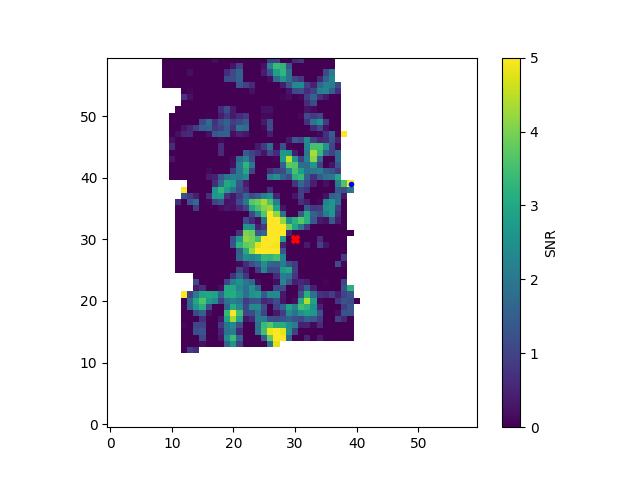
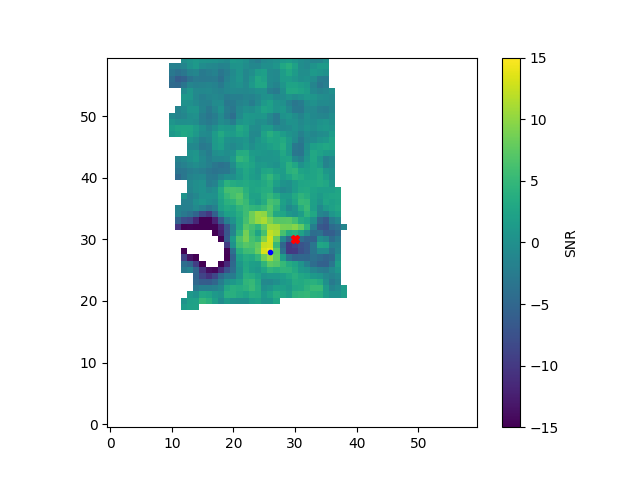
working version

diff --git a/get_planet.py b/get_planet.py
@@ -43,7 +43,7 @@ model_spec = 10 ** (arr[:, 1] - 8)
 tr_counter = 0
 tr_total = 6
 
-for filename in files[11:]:
+for filename in files[5:12]:
     if ".fits" not in filename:
         print("skipping ", filename)
         continue
@@ -71,7 +71,7 @@ for filename in files[11:]:
     # SR3
     tr_counter = (tr_counter + 1) % tr_total
     tr_file = "/scr3/jruffio/data/osiris_survey/targets/SR3/210626/second/reduced/spectra/s210626_a037" \
-        + format(tr_counter+1, '03d') + "_Kn5_020_spectrum.fits"
+        + format(tr_counter+2, '03d') + "_Kn5_020_spectrum.fits"
     
     # +filename[12:-13]
     print("Reading transmission file", tr_file)
@@ -90,7 +90,7 @@ for filename in files[11:]:
     planet_f = interp1d(model_wvs, model_broadspec, bounds_error=False, fill_value=np.nan)
 
     fm_paras = {"planet_f":planet_f,"transmission":transmission,"star_spectrum":star_spectrum,
-            "boxw":3,"nodes":4,"psfw":1.2,"nodes":5,"badpixfraction":0.75}
+            "boxw":1,"nodes":4,"psfw":1.2,"nodes":5,"badpixfraction":0.75}
     fm_func = hc_splinefm
     rvs = np.array([0])
     ys = np.arange(-30, 30)
@@ -99,7 +99,7 @@ for filename in files[11:]:
     print(dataobj.data.shape, dataobj.wavelengths.shape, transmission.shape, star_spectrum.shape)
 
     if True: # Example code to test the forward model
-        nonlin_paras = [0, -17, 4] # rv (km/s), y (pix), x (pix)
+        nonlin_paras = [0, 10, 21] # rv (km/s), y (pix), x (pix)
         # d is the data vector a the specified location
         # M is the linear component of the model. M is a function of the non linear parameters x,y,rv
         # s is the vector of uncertainties corresponding to d
@@ -124,6 +124,7 @@ for filename in files[11:]:
         plt.plot(m,label="model")
         plt.plot(paras[0]*M[:,0],label="planet model")
         plt.plot(m-paras[0]*M[:,0],label="starlight model")
+        plt.legend()
         plt.subplot(2,1,2)
         plt.plot(M[:,0]/np.max(M[:,0]),label="planet model")
         for k in range(M.shape[-1]-1):

diff --git a/combine_frames.py b/combine_frames.py
@@ -31,6 +31,9 @@ t_err = 1 / np.sqrt(t_err_rec)
 
 snr = t_flux / t_err
 
+snr[snr < -20] = np.nan
+snr[snr > 20] = np.nan
+
 print("frames combined: ", len(fluxs.keys()))
 print("max SNR: ", np.nanmax(snr))
 x, y = np.unravel_index(np.nanargmax(snr), snr.shape)
@@ -38,7 +41,7 @@ xS, yS = np.array(snr.shape) / 2
 print("relative position: ", (y - yS, x - xS))
 
 plt.figure()
-plt.imshow(snr,origin="lower", vmin=0, vmax=5)
+plt.imshow(snr,origin="lower", vmin=-15, vmax=15)
 plt.plot(yS, xS, "rX")
 plt.plot(y, x, "b.")
 cbar = plt.colorbar()
